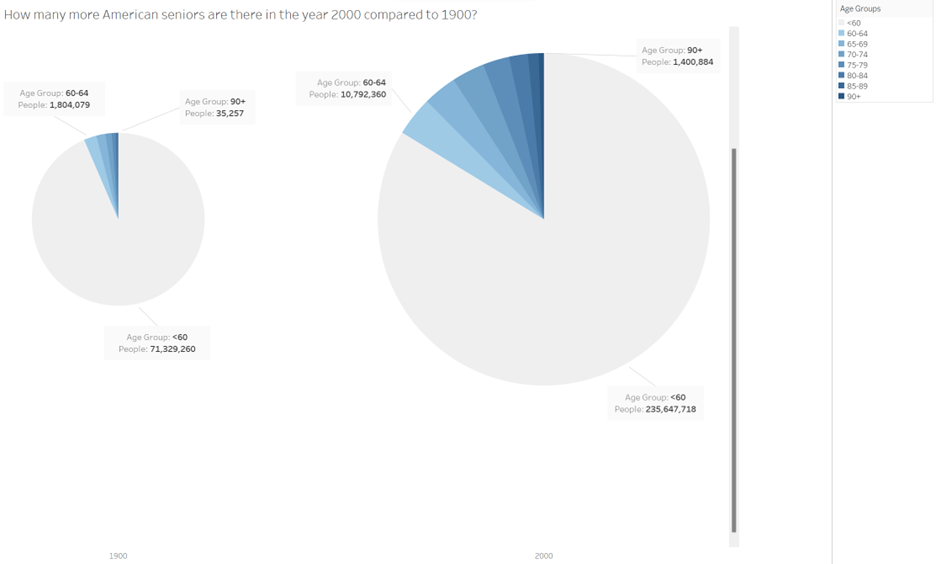
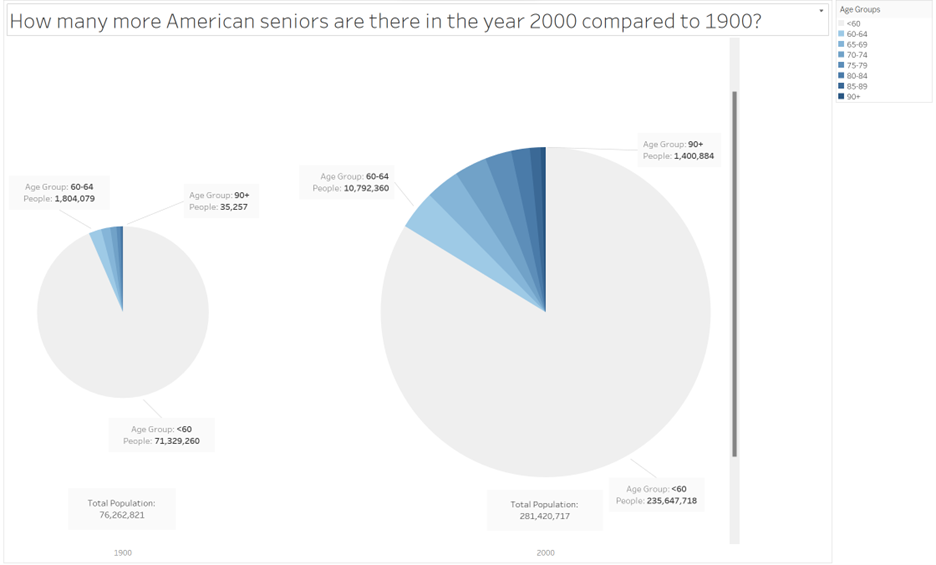
f

diff --git a/projects/A3_report.html b/projects/A3_report.html
@@ -121,7 +121,35 @@
 			<h2>Design Process & Design Decisions</h2>
 
 			<p>
-        DESCRIBE YOUR DESIGN PROCESS AND DECISION DECISIONS HERE.
+        Once I had decided on a pie chart concept similar to my third sketch, I
+        had to make several design decisions. First, I had trouble filtering out
+        the age groups under 60 years of age (the cutoff I use for defining
+        'senior') to make the 'pie slice' style chart I sketched. When I
+        filtered out an age group, it removed them from the pie altogether,
+        rather than hiding that particular slice. My solution was to group all
+        ages under 60 years and color it with a light grey. The age groups I
+        cared about were shown in a single color so the viewer can clearly see
+        how the fraction of seniors compares to that of non-seniors. I chose the
+        color blue because it is a calm and relaxing color, which I asociated
+        with retirement and rest. 
+
+		I chose to plot the data for 1900 and 2000 using two pie charts of
+		different size, where the larger population is depicted by a larger pie.
+		The viewer can then see both the change in total population as well as
+		the change in fraction of senior population. I originally only annotated
+		the total population, as in my third sketch, but I had trouble
+		connecting the scale of population with the size of each slice.
+		Therefore, I annotated a few slices to give viewers a point of
+		reference; specifically, I labelled the largest slice (under 60), the
+		largest senior slice (60-64), and the smallest slice (90+). The chart
+		was too busy if I annotated all of the slices, but the viewer can
+		approximate the magnitude of other age groups by comparing to the
+		annotated slices. My intent was to show the viewer that a larger part of
+		the population today is senior (as shown by 2000 data). I chose to list
+		the total population and not the total number of seniors (60+) to force
+		the viewer to consider the population of seniors <em>relative</em> to
+		the total population; if the total number was visible, they would focus
+		on that magnitude rather than the fraction.  
       </p>
 
 
